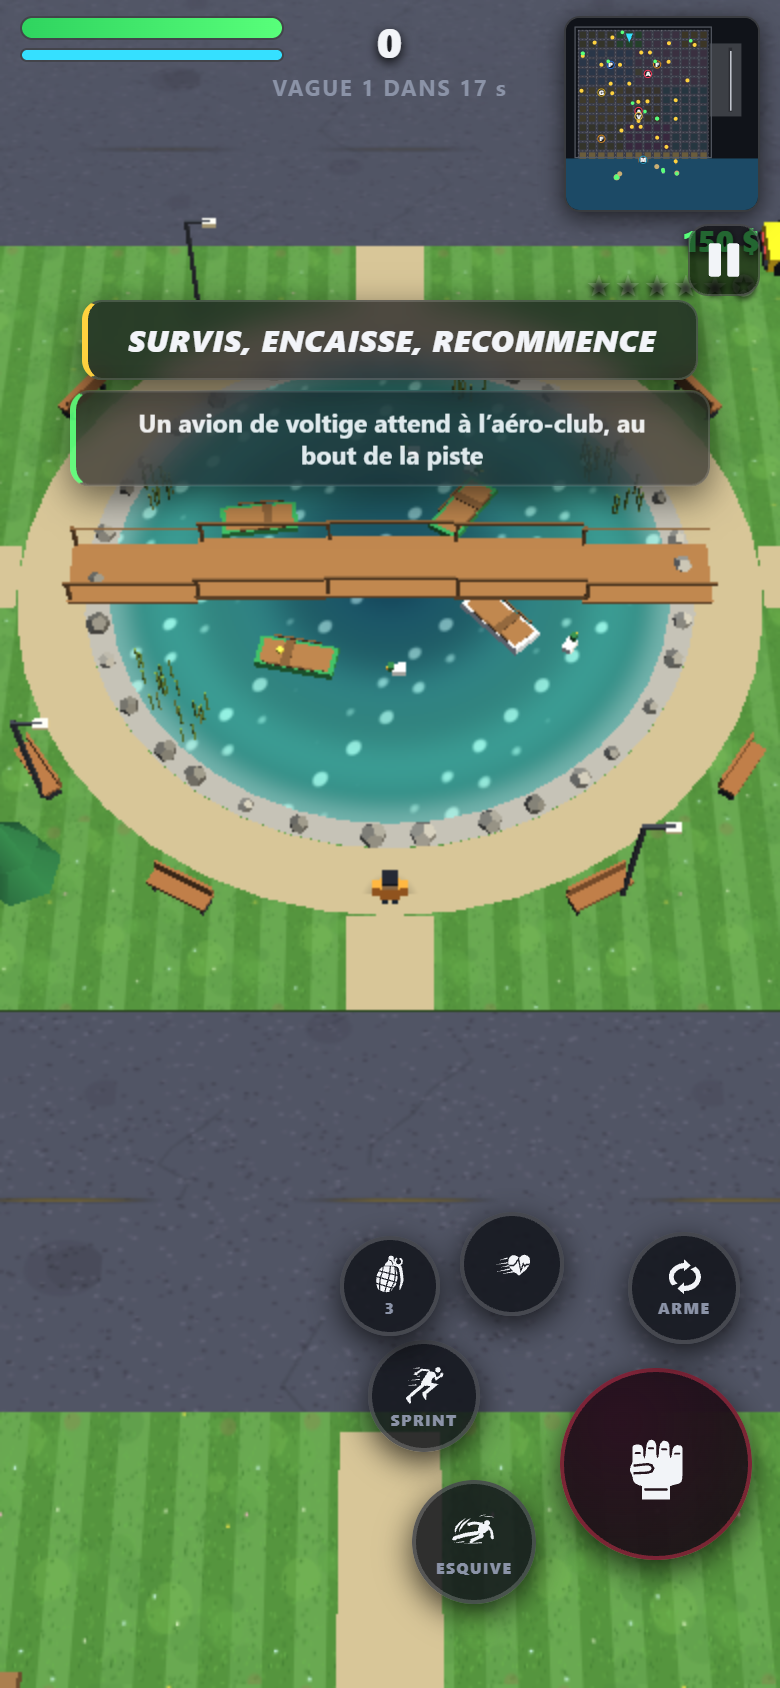
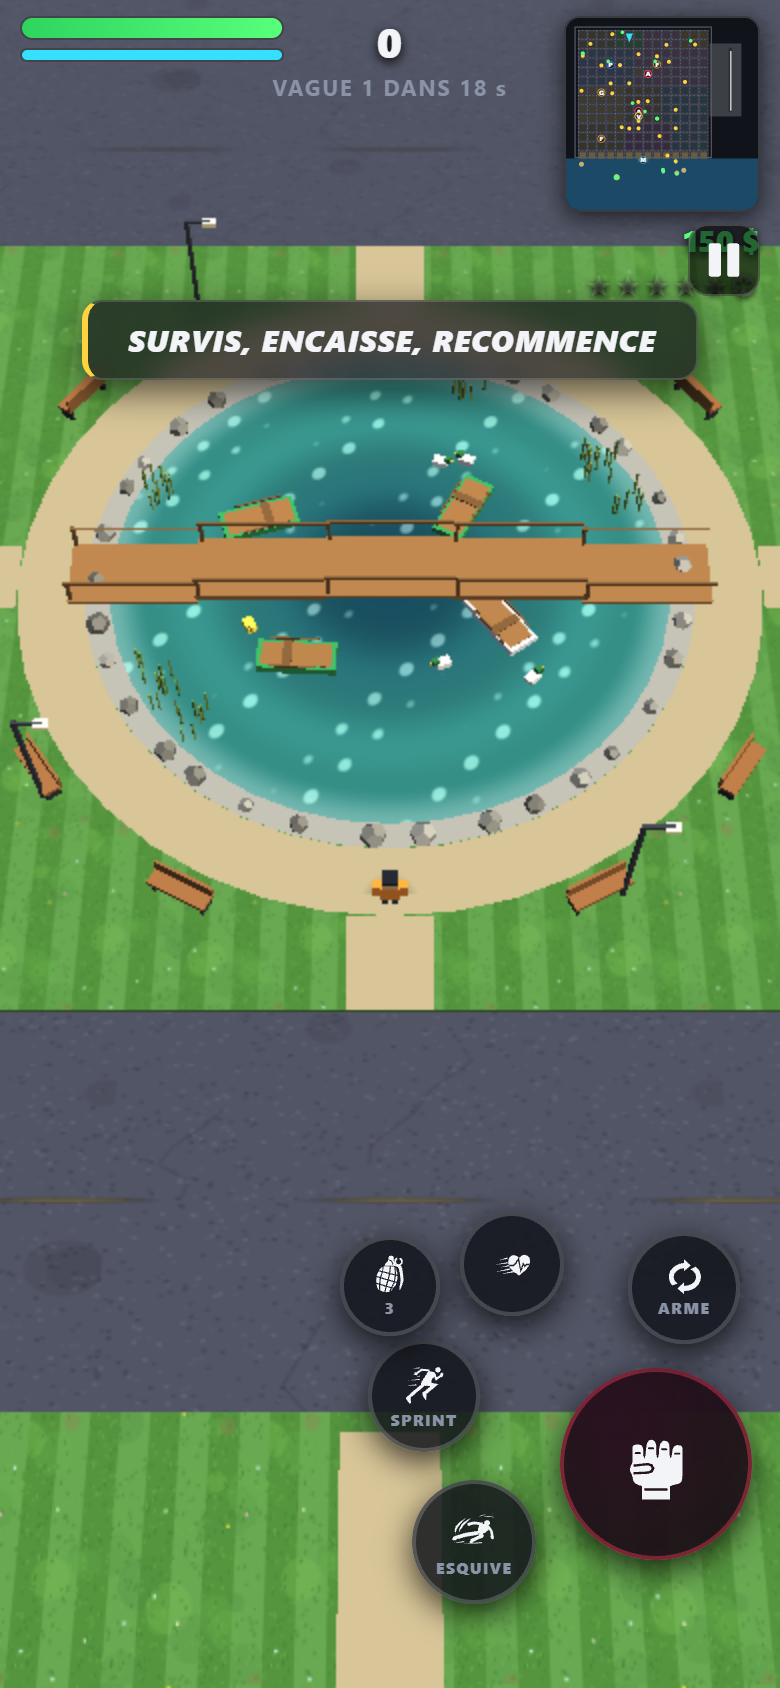
perf(décor): lac du parc fusionné avec la ville (160 → 98 appels de rendu sur sa vue)
Margelle, chemin, allées, passerelle et bancs rejoignent pushMerge ; banc et
rames de chaque barque en un maillage. Seuls l'eau, les barques et les
canards restent séparés.

diff --git a/index.html b/index.html
@@ -3993,17 +3993,19 @@ function mkLacParc(cx,cz){
   mEau.customProgramCacheKey=()=>'lacParc';
   const eau=new THREE.Mesh(new THREE.CircleGeometry(R,40),mEau);
   eau.rotation.x=-Math.PI/2; eau.position.set(cx,0.17,cz); scene.add(eau);
+  // Tout ce qui ne bouge pas rejoint la fusion de la ville (pushMerge) :
+  // mesuré, le lac en maillages séparés doublait les appels de rendu de sa
+  // vue (80 → 160). Seuls l'eau, les barques et les canards restent à part.
+  const plat=(geo,m,x,y,z)=>{ geo.rotateX(-Math.PI/2); pushMerge(geo,m,x,y,z); };
   // margelle de pierres + chemin de gravier
-  const marg=new THREE.Mesh(new THREE.RingGeometry(R-0.1,R+0.75,40),mat(0x8d8a82));
-  marg.rotation.x=-Math.PI/2; marg.position.set(cx,0.2,cz); scene.add(marg);
-  const chem=new THREE.Mesh(new THREE.RingGeometry(R+0.75,R+3,40),mat(0x9a8c6c));
-  chem.rotation.x=-Math.PI/2; chem.position.set(cx,0.165,cz); scene.add(chem);
+  plat(new THREE.RingGeometry(R-0.1,R+0.75,40),mat(0x8d8a82),cx,0.2,cz);
+  plat(new THREE.RingGeometry(R+0.75,R+3,40),mat(0x9a8c6c),cx,0.165,cz);
   for(let i=0;i<34;i++){ const a=i/34*Math.PI*2+aD(-0.05,0.05), t=aD(0.25,0.45);
     pushMerge(new THREE.DodecahedronGeometry(t,0),mat(choixD([0x7a776f,0x8f8b82,0x6a675f])),cx+Math.cos(a)*(R+0.35),0.25,cz+Math.sin(a)*(R+0.35),aD(0,6)); }
   // allées vers les bords du pâté (nord, sud) + prolongement de la passerelle (est, ouest)
   const B=(INNER+2)/2, mAll=mat(0x9a8c6c);
   for(const [dx,dz,w,d] of [[0,-(R+3+B)/2,2.6,B-R-3],[0,(R+3+B)/2,2.6,B-R-3],[-(R+3+B)/2,0,B-R-3,2.6],[(R+3+B)/2,0,B-R-3,2.6]]){
-    const a=new THREE.Mesh(new THREE.PlaneGeometry(w,d),mAll); a.rotation.x=-Math.PI/2; a.position.set(cx+dx,0.16,cz+dz); scene.add(a); }
+    plat(new THREE.PlaneGeometry(w,d),mAll,cx+dx,0.16,cz+dz); }
   // roseaux en touffes au bord de l'eau (évite la passerelle)
   const gRos=new THREE.BoxGeometry(0.06,1,0.06);
   for(let i=0;i<9;i++){
@@ -4015,16 +4017,18 @@ function mkLacParc(cx,cz){
   const mBois=mat(0x8a6038), mRamb=mat(0x6a4a2c), L=2*(R+1.2), n=5;
   for(let i=0;i<n;i++){
     const x0=cx-L/2+L*(i+0.5)/n, h=0.25+0.5*Math.sin(Math.PI*(i+0.5)/n);
-    mkBox(L/n+0.05,0.18,2.4,mBois,x0,h-0.09,cz);
+    mergeBox(L/n+0.05,0.18,2.4,mBois,x0,h-0.09,cz);
     PLATS.push({x:x0,z:cz,hw:L/n/2,hd:1.2,h});
-    for(const s of [-1,1]){ mkBox(0.12,0.9,0.12,mRamb,x0-L/n/2+0.1,h+0.45,cz+s*1.12); mkBox(L/n,0.08,0.08,mRamb,x0,h+0.85,cz+s*1.12); }
+    for(const s of [-1,1]){ mergeBox(0.12,0.9,0.12,mRamb,x0-L/n/2+0.1,h+0.45,cz+s*1.12); mergeBox(L/n,0.08,0.08,mRamb,x0,h+0.85,cz+s*1.12); }
   }
   // barques (décor qui tangue) et canards
   for(let i=0;i<4;i++){
     const a=i/4*Math.PI*2+0.6, r=aD(4.2,6.8), g=new THREE.Group();
     g.add(mkBoxG(1.1,0.35,2.6,choixD([0xd8dce4,0x2a7ae0,0xd83a3a,0x2f8a4a]),0,0.12,0));
-    g.add(mkBoxG(0.9,0.06,2.3,0x8a6038,0,0.28,0)); g.add(mkBoxG(1.0,0.08,0.3,0x6a4a2c,0,0.32,0.3));
-    g.add(mkBoxG(0.06,0.06,1.6,0x6a4a2c,0.55,0.4,0.1)); g.add(mkBoxG(0.06,0.06,1.6,0x6a4a2c,-0.55,0.4,0.1)); // rames
+    g.add(mkBoxG(0.9,0.06,2.3,0x8a6038,0,0.28,0));
+    const bancRames=[[1.0,0.08,0.3,0,0.32,0.3],[0.06,0.06,1.6,0.55,0.4,0.1],[0.06,0.06,1.6,-0.55,0.4,0.1]] // banc + rames : un seul maillage
+      .map(([w,hh,d,x,y,z])=>new THREE.BoxGeometry(w,hh,d).translate(x,y,z));
+    g.add(new THREE.Mesh(mergeGeoManuel(bancRames),mat(0x6a4a2c)));
     const bx=cx+Math.cos(a)*r, bz=cz+Math.sin(a)*r*0.75;
     g.position.set(bx,0.12,bz); g.rotation.y=aD(0,6); scene.add(g);
     LAC_BARQUES.push({g,x:bx,z:bz,ph:aD(0,6),ang:g.rotation.y});
@@ -4038,9 +4042,9 @@ function mkLacParc(cx,cz){
   // jamais sur les 4 allées (0°, 90°, 180°, 270°)
   [35,62,118,145,215,325].forEach((deg,i)=>{
     const a=deg*Math.PI/180, r=R+3.9, x=cx+Math.cos(a)*r, z=cz+Math.sin(a)*r, ry=-a+Math.PI/2;
-    const banc=new THREE.Group(); banc.add(mkBoxG(2,0.12,0.6,0x8a5a34,0,0.5,0)); banc.add(mkBoxG(2,0.45,0.1,0x8a5a34,0,0.8,0.27));
-    banc.add(mkBoxG(0.1,0.5,0.5,0x2a2d34,-0.85,0.25,0)); banc.add(mkBoxG(0.1,0.5,0.5,0x2a2d34,0.85,0.25,0));
-    banc.position.set(x,0.14,z); banc.rotation.y=ry+Math.PI; scene.add(banc);
+    const t=ry+Math.PI, c=Math.cos(t), sn=Math.sin(t); // banc fusionné : pièces tournées à la main
+    for(const [w,hh,d,lx,ly,lz,col] of [[2,0.12,0.6,0,0.5,0,0x8a5a34],[2,0.45,0.1,0,0.8,0.27,0x8a5a34],[0.1,0.5,0.5,-0.85,0.25,0,0x2a2d34],[0.1,0.5,0.5,0.85,0.25,0,0x2a2d34]])
+      mergeBox(w,hh,d,mat(col),x+lx*c+lz*sn,0.14+ly,z-lx*sn+lz*c,t);
     if(i%2===0) mkLampadaire(cx+Math.cos(a+0.42)*(R+4.2),cz+Math.sin(a+0.42)*(R+4.2));
   });
 }
